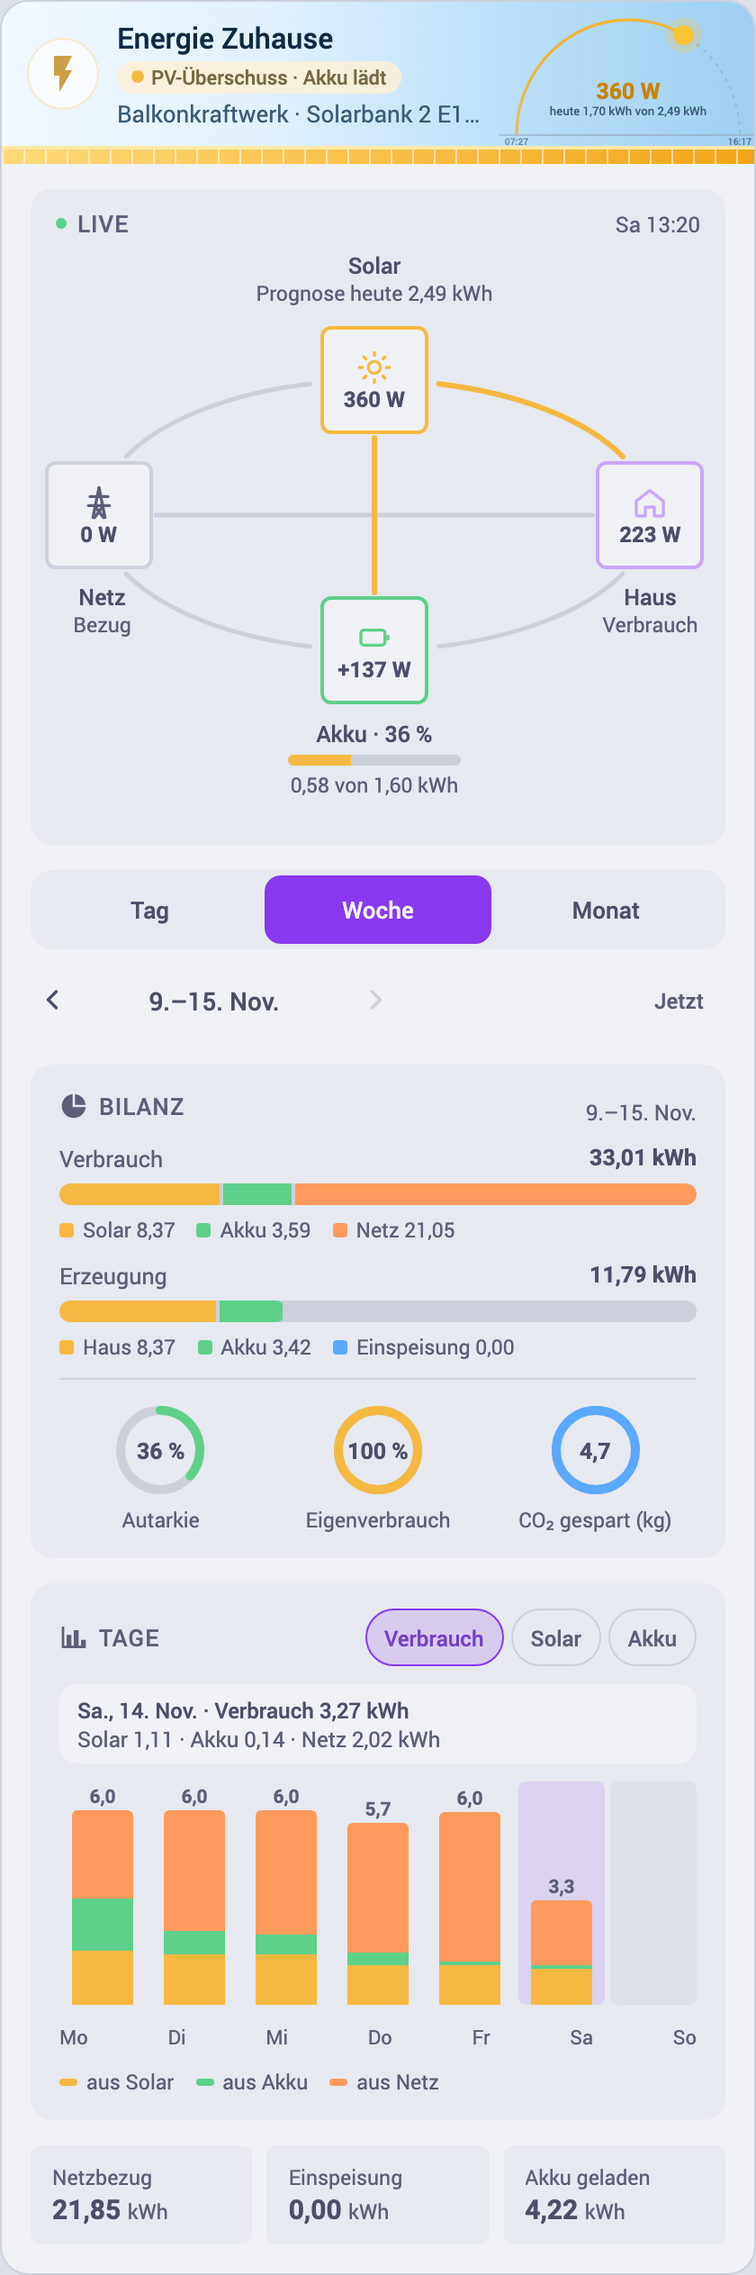
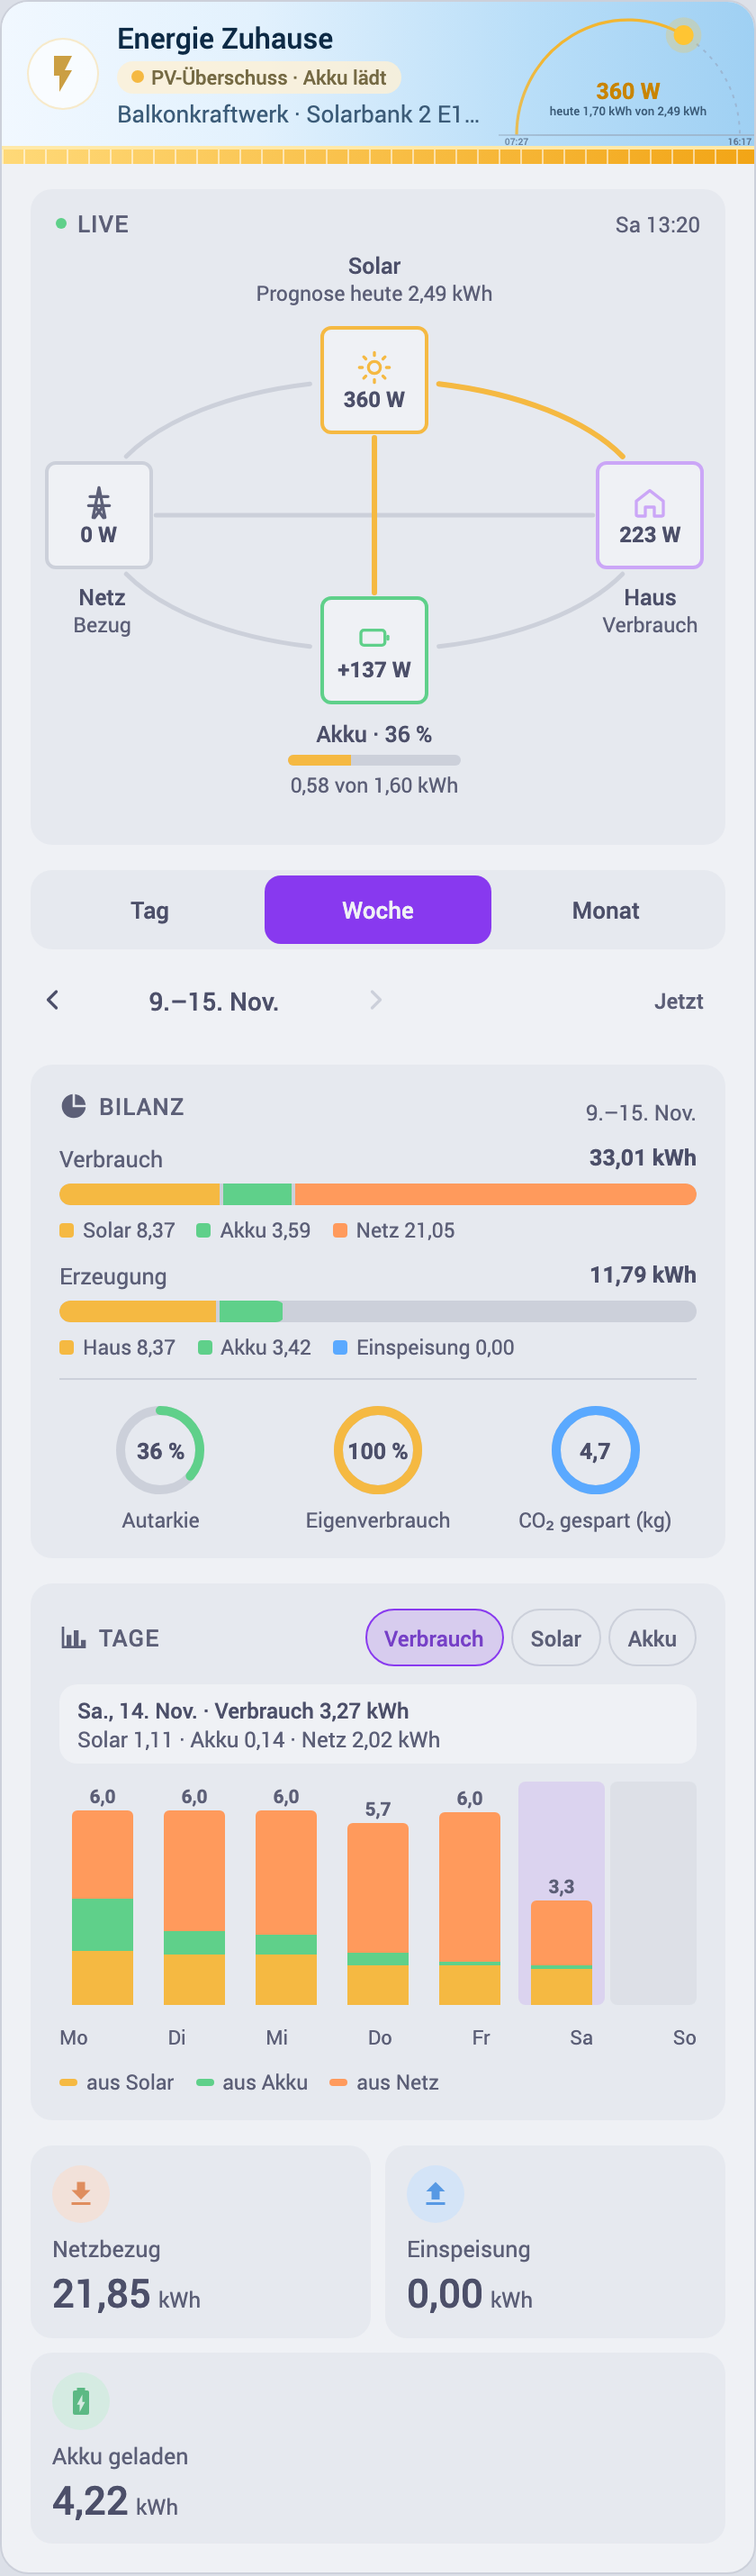
0.7.0: KPI tiles under the power chart and for the period's energy
Grid import, export, consumption and PV as tiles under the power chart (the
power now with the day's peak, live; another day its peak), and the footer's
kWh values with PV against the forecast as tiles. A tile without a value is
left out and the rows close up; a click opens the sensor's dialog.

diff --git a/src/kpi.js b/src/kpi.js
@@ -1,0 +1,87 @@
+// KPI tiles, as in the tiles view of the consumers card (consumers.js), shared look with the oil and heating cards: a round icon, the label under it, the value
+// large with a small unit, then a sub line and/or a thin bar (with a marker for a target, the reserve or last year).
+// Tiles without a value are left out; the grid never shows a gap: a tile that would not fit the rest of a row and
+// the last tile of a short row widen until the row is full.
+import { svgIcon } from "./icons.js";
+import { esc } from "./shared.js";
+
+/**
+ * Column spans so every row is full. `spans` are the wished spans (1 or 2) in order; a tile that does not fit the
+ * rest of its row moves to the next one (as CSS grid does) and the tile before it takes the free columns instead.
+ */
+export function fillRows(spans, cols) {
+  const out = spans.map((s) => Math.max(1, Math.min(cols, s)));
+  let used = 0;
+  for (let i = 0; i < out.length; i++) {
+    if (used + out[i] > cols) {
+      out[i - 1] += cols - used;
+      used = 0;
+    }
+    used = (used + out[i]) % cols;
+  }
+  if (used > 0 && out.length) out[out.length - 1] += cols - used;
+  return out;
+}
+
+const pct = (v) => Math.max(0, Math.min(100, v));
+
+/**
+ * One tile. `k` label, `v` value (HTML-escaped here), `u` unit, `icon`, `c` colour, `p` bar 0–100, `m` marker 0–100,
+ * `s` sub line, `d` badge HTML, `st` "warn" | "bad", `more` entity for Home Assistant's dialog.
+ */
+const tile = (x, s2, s3) => {
+  const tag = x.more ? "button" : "div";
+  const attrs = x.more ? ` type="button" data-more="${esc(x.more)}"` : "";
+  return `<${tag} class="kpi${x.st ? ` ${x.st}` : ""}${x.wide ? " wide" : ""}"${attrs} style="--c:${x.c};--s2:${s2};--s3:${s3}">
+    <span class="ki">${svgIcon(x.icon)}</span>
+    <span class="kk">${esc(x.k)}</span>
+    <span class="kv num">${esc(x.v)}${x.u ? `<small>${esc(x.u)}</small>` : ""}${x.d ? ` ${x.d}` : ""}</span>
+    ${x.s ? `<span class="ks">${esc(x.s)}</span>` : ""}
+    ${Number.isFinite(x.p) ? `<span class="kb"><i style="width:${pct(x.p).toFixed(1)}%"></i>${Number.isFinite(x.m) ? `<b style="left:${pct(x.m).toFixed(1)}%"></b>` : ""}</span>` : ""}
+  </${tag}>`;
+};
+
+/**
+ * A grid of tiles: three columns (two on a narrow card) or always two (`cols: 2`). Tiles whose value is null or
+ * undefined are dropped before the layout, so nothing leaves a hole.
+ */
+export function kpiGrid(list, { cols = 3 } = {}) {
+  const tiles = list.filter((x) => x && x.v !== null && x.v !== undefined && x.v !== "");
+  if (!tiles.length) return "";
+  const want = tiles.map((x) => (x.wide ? 2 : 1));
+  const two = fillRows(want, 2);
+  const three = cols === 3 ? fillRows(want, 3) : two;
+  return `<div class="kpis c${cols}">${tiles.map((x, i) => tile(x, two[i], three[i])).join("")}</div>`;
+}
+
+export const KPI_STYLE = `
+.kpis { display: grid; grid-template-columns: repeat(2, minmax(0, 1fr)); gap: 8px; }
+.kpis.c3 { grid-template-columns: repeat(3, minmax(0, 1fr)); }
+.kpis .kpi { grid-column: span var(--s2); }
+.kpis.c3 .kpi { grid-column: span var(--s3); }
+.kpi { position: relative; display: flex; flex-direction: column; align-items: flex-start; gap: 4px; min-width: 0; padding: 11px 12px 12px;
+       border: 0; border-radius: 12px; background: var(--eoc-tile); color: inherit; font: inherit; text-align: left; }
+button.kpi { cursor: pointer; }
+button.kpi:hover, .kpi[data-more]:hover { filter: brightness(1.04); background: var(--eoc-tile); }
+.kpi[data-more] { border-radius: 12px; }
+.kpi .ki { width: 32px; height: 32px; flex: none; border-radius: 50%; display: grid; place-items: center; margin-bottom: 2px;
+           color: color-mix(in srgb, var(--c) 82%, var(--eoc-text)); background: color-mix(in srgb, var(--c) 18%, var(--eoc-card)); }
+.kpi .ki .icon { width: 18px; height: 18px; }
+.kpi .kk { font-size: 12.5px; line-height: 1.3; color: var(--eoc-sub); }
+.kpi .kv { font-size: 22px; font-weight: 500; line-height: 1.15; overflow-wrap: anywhere; }
+.kpi.wide .kv { font-size: 28px; }
+.kpi .kv small { display: inline-block; white-space: nowrap; font-size: 12px; font-weight: 400; color: var(--eoc-sub); margin-left: 4px; }
+.kpi .kv .badge { vertical-align: middle; }
+.kpi .ks { font-size: 11.5px; line-height: 1.35; color: var(--eoc-sub); }
+.kpi .kb { position: relative; align-self: stretch; height: 4px; margin-top: auto; border-radius: 2px; background: color-mix(in srgb, var(--eoc-sub) 25%, transparent); }
+.kpi .ks + .kb, .kpi .kv + .kb { margin-top: 6px; }
+.kpi .kb i { position: absolute; left: 0; top: 0; bottom: 0; border-radius: 2px; background: var(--c); }
+.kpi .kb b { position: absolute; top: -3px; bottom: -3px; width: 2px; margin-left: -1px; border-radius: 1px; background: var(--eoc-text); opacity: .7; }
+.kpi.warn, .kpi.bad { box-shadow: inset 0 0 0 1px color-mix(in srgb, var(--c) 45%, transparent); background: color-mix(in srgb, var(--c) 8%, var(--eoc-tile)); }
+.kpi.warn .kv, .kpi.bad .kv { color: color-mix(in srgb, var(--c) 70%, var(--eoc-text)); }
+@container (max-width: 360px) {
+  .kpis.c3 { grid-template-columns: repeat(2, minmax(0, 1fr)); }
+  .kpis.c3 .kpi { grid-column: span var(--s2); }
+  .kpi.wide .kv { font-size: 24px; }
+}
+`;

diff --git a/src/sections.js b/src/sections.js
@@ -7,7 +7,8 @@ import { esc, fmtDay, fmtEnergy, fmtNum, fmtPower, fmtTime, fmtWeekday } from ".
 import { nightBlocks } from "./sun.js";
 import { svgIcon } from "./icons.js";
 import { renderBanner } from "./banner.js";
-import { moreAttrs, moreSpan } from "./more.js";
+import { kpiGrid } from "./kpi.js";
+import { moreSpan } from "./more.js";
 
 export const STATUS_COLOR = {
   grid_house: "var(--eoc-imp)",
@@ -147,7 +148,57 @@ export function power(ctx) {
     ${chart.html}
     <div class="xaxis p"><span>0</span><span>6</span><span>12</span><span>18</span><span>24</span></div>
     <div class="chips" role="group" aria-label="${esc(t("toggle_lines"))}">${chips}</div>
-  </div>`;
+  </div>
+  <div data-pnow>${powerNow(ctx)}</div>`;
+}
+
+/** W or kW as [number, unit]. */
+const powerParts = (w, lang) => (Math.abs(w) >= 1000 ? [fmtNum(w / 1000, lang, 2), "kW"] : [fmtNum(w, lang, 0), "W"]);
+
+/**
+ * Four tiles under the power chart: grid import, export, consumption and PV. Today they show the power now (the
+ * card refreshes them with the live values) against the day's peak; another day shows its peak and when.
+ */
+export function powerNow(ctx) {
+  const { t, lang, tz, power: p, live = {}, more = {} } = ctx;
+  if (ctx.kind !== "day" || !p || !Object.keys(p.series).length) return "";
+  const now = ctx.isCurrentPeriod;
+  const tile = (key, liveKey, label, icon, color, id) => {
+    const vals = p.series[key];
+    if (!vals) return null;
+    let peak = null;
+    let at = -1;
+    vals.forEach((v, i) => {
+      if (Number.isFinite(v) && (peak === null || v > peak)) {
+        peak = v;
+        at = i;
+      }
+    });
+    const cur = now ? live[liveKey] : peak;
+    if (!Number.isFinite(cur)) return null;
+    const [v, u] = powerParts(cur, lang);
+    const when = at >= 0 ? fmtTime(new Date(p.cells[at]), lang, tz) : "";
+    const peakText = peak !== null && peak > 0 ? `${fmtPower(peak, lang)} · ${when}` : "";
+    return {
+      k: t(label),
+      v,
+      u,
+      icon,
+      c: color,
+      s: now ? (peakText ? t("k_peak_today", { v: peakText }) : "") : when ? t("k_peak_at", { at: when }) : "",
+      p: now && peak > 0 ? (cur / peak) * 100 : undefined,
+      more: id,
+    };
+  };
+  return kpiGrid(
+    [
+      tile("grid_import", "grid_import", "grid_import", "download", "var(--eoc-imp)", more.grid_import),
+      tile("grid_export", "grid_export", "grid_export", "upload", "var(--eoc-exp)", more.grid_export),
+      tile("house", "house", "consumption", "home", "var(--eoc-house)", more.house),
+      tile("pv", "solar", "pv", "solar", "var(--eoc-pv)", more.solar),
+    ],
+    { cols: 2 },
+  );
 }
 
 // ---------- balance ----------
@@ -335,20 +386,44 @@ export function footer(ctx) {
       ? s.grid_import
       : (s.house_from_grid || 0) + (s.grid_to_battery || 0);
   const more = ctx.more || {};
-  const tile = (k, v, id) =>
-    `<div class="tile"${moreAttrs(id)}><div class="k">${esc(k)}</div><div class="v">${fmtNum(v, lang, 2)} <span>kWh</span></div></div>`;
-  let fc = "";
-  if (ctx.kind === "day" && ctx.isCurrentPeriod && Number.isFinite(ctx.forecastToday) && ctx.forecastToday > 0) {
-    const ratio = (s.solar || 0) / ctx.forecastToday;
-    fc = `<div class="fc"><span>${esc(t("pv_vs_forecast"))}</span>
-      <div class="bar"><div style="width:${Math.min(100, ratio * 100).toFixed(1)}%"></div></div>
-      <b>${moreSpan(more.e_solar, fmtNum(s.solar, lang, 2))} / ${moreSpan(more.forecast, fmtEnergy(ctx.forecastToday, lang))} · ${Math.round(ratio * 100)} %</b></div>`;
-  }
-  return `<div class="foot">
-    ${tile(t("grid_import"), imp, more.e_grid_import)}
-    ${tile(t("grid_export"), s.grid_export, more.e_grid_export)}
-    ${tile(t("battery_charged"), s.battery_charge, more.e_battery_charge)}
-  </div>${fc}`;
+  const kwh = (v) => (Number.isFinite(v) ? fmtNum(v, lang, 2) : null);
+  const fc =
+    ctx.kind === "day" && ctx.isCurrentPeriod && Number.isFinite(ctx.forecastToday) && ctx.forecastToday > 0
+      ? ctx.forecastToday
+      : null;
+  const ratio = fc ? (s.solar || 0) / fc : null;
+  return kpiGrid(
+    [
+      { k: t("grid_import"), v: kwh(imp), u: "kWh", icon: "download", c: "var(--eoc-imp)", more: more.e_grid_import },
+      {
+        k: t("grid_export"),
+        v: kwh(s.grid_export),
+        u: "kWh",
+        icon: "upload",
+        c: "var(--eoc-exp)",
+        more: more.e_grid_export,
+      },
+      {
+        k: t("battery_charged"),
+        v: kwh(s.battery_charge),
+        u: "kWh",
+        icon: "battery",
+        c: "var(--eoc-bat)",
+        more: more.e_battery_charge,
+      },
+      fc && {
+        k: t("pv_vs_forecast"),
+        v: kwh(s.solar || 0),
+        u: `/ ${fmtEnergy(fc, lang)}`,
+        icon: "solar",
+        c: "var(--eoc-pv)",
+        p: ratio * 100,
+        s: t("k_of_forecast", { v: Math.round(ratio * 100) }),
+        more: more.e_solar,
+      },
+    ],
+    { cols: 2 },
+  );
 }
 
 export const RENDERERS = { header, flow, period, power, balance, history, footer };

diff --git a/src/energy-overview-card.js b/src/energy-overview-card.js
@@ -8,6 +8,7 @@
  * Layout and look follow the cards of juju35 (https://github.com/juju35). MIT licence.
  */
 import { BALANCE_STYLE, patchBalance, renderBalance } from "./balancecard.js";
+import { KPI_STYLE } from "./kpi.js";
 import { bindMore, MORE_STYLE, moreIds } from "./more.js";
 import {
   Cache,
@@ -36,6 +37,7 @@ import {
   defaultSel,
   historyReadout,
   historyUnits,
+  powerNow,
   powerReadoutHTML,
   powerTitle,
   RENDERERS,
@@ -49,7 +51,7 @@ import { daySun } from "./sun.js";
 import { tzOf } from "./tz.js";
 
 const VERSION = __VERSION__;
-const STYLE = BASE_STYLE + BANNER_STYLE + MORE_STYLE;
+const STYLE = BASE_STYLE + BANNER_STYLE + MORE_STYLE + KPI_STYLE;
 const TICK = 60e3;
 
 // Config keys holding entity ids: their states decide when the live part re-renders.
@@ -340,6 +342,9 @@ export class EnergyOverviewCard extends HTMLElement {
         if (old) n.replaceWith(old);
       }
     }
+    // The power-now tiles under the chart follow the live values too.
+    const pnow = this.shadowRoot.querySelector("[data-pnow]");
+    if (pnow) pnow.innerHTML = powerNow(ctx);
     animateSky(this.shadowRoot);
     this._fitBanner();
     if (focus === "[data-close]") this.shadowRoot.querySelector(focus)?.focus({ preventScroll: true });

diff --git a/src/styles.js b/src/styles.js
@@ -148,15 +148,6 @@ button:focus-visible { outline: 2px solid var(--eoc-accent); outline-offset: 2px
 .overlay { position: absolute; left: 0; width: 100%; pointer-events: none; overflow: visible; }
 
 /* footer */
-.foot { display: grid; grid-template-columns: repeat(3, minmax(0, 1fr)); gap: 8px; }
-.foot .tile { padding: 10px 12px; gap: 2px; }
-.foot .k { font-size: 11.5px; color: var(--eoc-sub); white-space: nowrap; overflow: hidden; text-overflow: ellipsis; }
-.foot .v { font-size: 15px; font-weight: 700; white-space: nowrap; }
-.foot .v span { font-size: 11.5px; font-weight: 400; color: var(--eoc-sub); }
-.fc { display: flex; align-items: center; gap: 10px; font-size: 12px; color: var(--eoc-sub); }
-.fc .bar { flex: 1 1 auto; height: 6px; }
-.fc .bar div { height: 6px; background: var(--eoc-pv); }
-.fc b { flex: none; color: var(--eoc-text); font-weight: 500; }
 
 /* mini card */
 .mini { padding: 12px 12px 12px 16px; flex-direction: row; align-items: center; gap: 14px; }

diff --git a/src/shared.js b/src/shared.js
@@ -104,6 +104,9 @@ const STRINGS = {
     ro_battery_2: "Geladen {a} (PV {b} · Netz {c}) · Entladen {d} kWh",
     battery_charged: "Akku geladen",
     pv_vs_forecast: "PV Ist / Prognose",
+    k_peak_today: "Spitze heute {v}",
+    k_peak_at: "Spitze um {at}",
+    k_of_forecast: "{v} % der Prognose",
     no_stats: "Keine Statistik gefunden – Energie-Dashboard einrichten oder Quellen in der Karte angeben.",
     loading: "Lade …",
     open: "Energie-Übersicht öffnen",
@@ -231,6 +234,9 @@ const STRINGS = {
     ro_battery_2: "Charged {a} (PV {b} · grid {c}) · discharged {d} kWh",
     battery_charged: "Battery charged",
     pv_vs_forecast: "PV actual / forecast",
+    k_peak_today: "peak today {v}",
+    k_peak_at: "peak at {at}",
+    k_of_forecast: "{v} % of the forecast",
     no_stats: "No statistics found – set up the Energy dashboard or give the sources in the card.",
     loading: "Loading …",
     open: "Open energy overview",

diff --git a/src/icons.js b/src/icons.js
@@ -8,6 +8,8 @@ export const ICONS = {
   pie: "M11,2.05A10,10 0 1,0 21.95,13H11V2.05M13,2.05V11H21.95A10,10 0 0,0 13,2.05Z",
   tower:
     "M8.28,5.45L6.5,4.55L7.76,2H16.23L17.5,4.55L15.72,5.44L15,4H9L8.28,5.45M18.62,8H14.09L13.3,5H10.7L9.91,8H5.38L4.1,10.55L5.89,11.44L6.62,10H17.38L18.1,11.45L19.89,10.56L18.62,8M17.77,22H15.7L15.46,21.1L12,15.9L8.53,21.1L8.3,22H6.23L9.12,11H11.19L10.83,12.35L12,14.1L13.16,12.35L12.81,11H14.88L17.77,22M11.4,15L10.5,13.65L9.32,18.13L11.4,15M14.68,18.12L13.5,13.64L12.6,15L14.68,18.12Z",
+  download: "M5,20H19V18H5M19,9H15V3H9V9H5L12,16L19,9Z",
+  upload: "M9,16V10H5L12,3L19,10H15V16H9M5,20V18H19V20H5Z",
   home: "M10,20V14H14V20H19V12H22L12,3L2,12H5V20H10Z",
   panel:
     "M4,2H20A2,2 0 0,1 22,4V14A2,2 0 0,1 20,16H15V20H18V22H13V16H11V22H6V20H9V16H4A2,2 0 0,1 2,14V4A2,2 0 0,1 4,2M4,4V8H11V4H4M4,14H11V10H4V14M20,14V10H13V14H20M20,4H13V8H20V4Z",

diff --git a/README.md b/README.md
@@ -37,7 +37,10 @@ Aufbau und Look orientieren sich an den Karten von [juju35](https://github.com/j
   „Akku versorgt Haus“, „Einspeisung“). Vier Darstellungen zur Wahl, siehe [Energiefluss-Darstellungen](#energiefluss-darstellungen).
 - **Zeitraum Tag / Woche / Monat** (unbegrenzt zurückblättern): Bilanz mit Verbrauch (aus Solar / Akku / Netz) und
   Erzeugung (ins Haus / in den Akku / Einspeisung), Autarkie, Eigenverbrauch, CO₂ gespart.
-- **Leistungsdiagramm** des Tages (Netzbezug, Einspeisung, PV, Verbrauch, Akku-Ladestand) mit Fadenkreuz.
+- **Leistungsdiagramm** des Tages (Netzbezug, Einspeisung, PV, Verbrauch, Akku-Ladestand) mit Fadenkreuz, darunter
+  Kennzahl-Kacheln mit der Leistung jetzt und der Tagesspitze (an anderen Tagen die Spitze und wann).
+- **Kacheln** für die Energie des Zeitraums: Netzbezug, Einspeisung, Akku geladen und heute PV gegen die Prognose.
+  Fehlt ein Wert, entfällt seine Kachel und die übrigen rücken ohne Lücke nach.
 - **Verlauf** als Säulen: Verbrauch (mit Nachtbereichen), Solar (heute mit Prognose) und Akku (Ladung nach oben,
   Entladung nach unten, Ladestand-Linie).
 - **Nicht enthalten:** Steuerlogik, Kosten und Tarife – dafür gibt es die Tibber Battery Card.
@@ -246,8 +249,8 @@ Jede Säule ist ein Button: Hover, Fokus oder Antippen zeigt die Werte in der Ze
 stehen die Werte über (und beim Akku die Entladung unter) den Säulen; im Monat sind künftige Tage blasse Platzhalter.
 
 Werte mit eigener Entität sind anklickbar und öffnen den normalen Home-Assistant-Dialog dieser Entität (Verlauf,
-Einstellungen): die Live-Werte im Energiefluss, die Werte über dem Leistungsdiagramm, Netzbezug, Einspeisung und
-Akku geladen in der Fußzeile sowie PV und Prognose darunter. Ein berechneter Wert ohne Entität (etwa der
+Einstellungen): die Live-Werte im Energiefluss, die Werte über dem Leistungsdiagramm und die Kacheln (Leistung jetzt,
+Netzbezug, Einspeisung, Akku geladen, PV gegen Prognose). Ein berechneter Wert ohne Entität (etwa der
 Verbrauch ohne `house_power_entity`) bleibt normaler Text, außer `house_info_entity` nennt einen Sensor für den Dialog.
 
 ### Mini-Karte
@@ -359,12 +362,13 @@ A Lovelace card for a **PV system with a home battery**: live energy flow, balan
 
 **What it shows:** the live flow between solar, grid, home and battery with a status pill; for a day, week or month
 (page back without limit) the balance of consumption (from solar / battery / grid) and production (to home / battery /
-export), self-sufficiency, self-consumption and CO₂ saved; the day's power chart with a crosshair; and a history of
+export), self-sufficiency, self-consumption and CO₂ saved; the day's power chart with a crosshair and KPI tiles for the power now and the day's peak; KPI tiles for the
+period's grid import, export, battery charged and PV against today's forecast; and a history of
 consumption (with night blocks), solar (with today's forecast) and battery (charge up, discharge down, state-of-charge
 line). **Not included:** control logic, costs and tariffs.
 
 Values backed by an entity open Home Assistant's own dialog of that entity: the live values of the flow, the values over
-the power chart, and grid import, export, battery charged and PV / forecast in the footer. A computed value without an
+the power chart, and the KPI tiles. A computed value without an
 entity (consumption without `house_power_entity`) stays plain text, unless `house_info_entity` names a sensor for the
 dialog (it is not used in the calculation).
 

diff --git a/CHANGELOG.md b/CHANGELOG.md
@@ -1,5 +1,15 @@
 # Changelog
 
+## 0.7.0 (2026-11-20)
+
+- **KPI tiles** (as in the consumers card's tiles view, and the oil and heating cards): a round icon, the label, the
+  value large with a small unit, a sub line and a thin bar.
+- **Under the power chart:** grid import, export, consumption and PV. Today the power now, refreshed with the live
+  values, with the day's peak and its time and a bar against it; another day shows its peak and when.
+- **The footer** (grid import, export, battery charged, PV against today's forecast) becomes tiles; the forecast tile
+  only today. No gaps: a tile without a value is left out and the last tile of a short row widens. A click opens the
+  sensor's dialog as before.
+
 ## 0.6.1 (2026-11-20)
 
 - Consumers card: `include` adds sensors to the detected ones, for example a sub-meter for the garden that the
